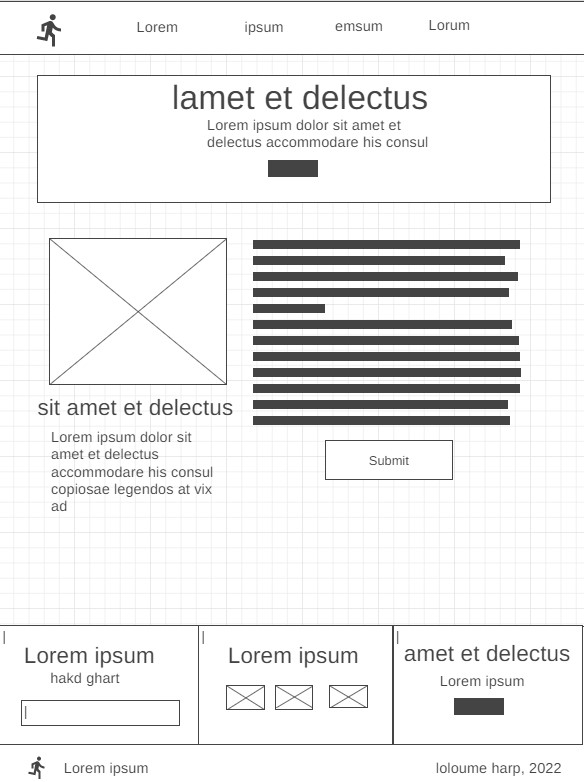
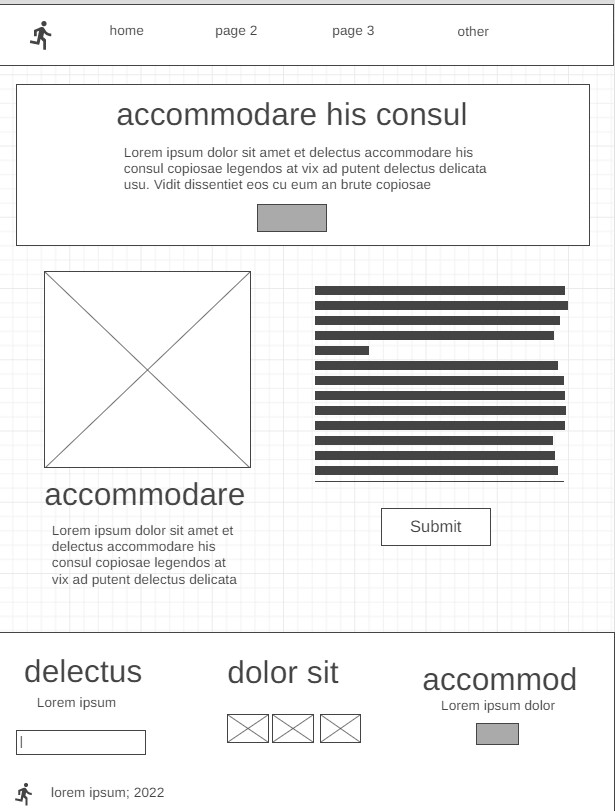
commit

diff --git a/personal-site/index.html b/personal-site/index.html
@@ -5,7 +5,7 @@
     <meta charset="UTF-8">
     <meta http-equiv="X-UA-Compatible" content="IE=edge">
     <meta name="viewport" content="width=device-width, initial-scale=1.0">
-    <title>Traning Plans Made Easy | Training4u | Homes </title>
+    <title>Training Plans Made Easy | Training4u | Homes </title>
 </head>
 <body>
     <div id="content">
@@ -21,16 +21,20 @@
 
             </nav>
         </header>
-        <div id="Hero">
+        
+        <div id="hero-one">
             <div id="hero-box-one">
                 <img id="hero-img-one" src="pictures/woman-running.jpg" alt="Training Plans">
             </div>
+
             <section id="hero-msg-one">
                 <h1 class="home-title-one"> Start Now With Training4u</h1>
-                <h4>Make your running dreams come true with unique and personal training plans </h4>
+                <h4>Make your running dreams come true with our unique and personal training plans </h4>
             </section>
+        </div>
+        <div id="hero-two">>
             <div id="hero-box-two">
-                <img id="hero-img-two" src="pictures/running-group.jpg" alt="group training">
+                <img id="hero-img-two" src="pictures/running-group.png" alt="group training">
             </div>
             <section id="hero-msg-two">
                 <h1 class="home-title-two">Meet other local runners </h1>
@@ -51,46 +55,44 @@
                 <img class="recover-img" src="pictures/asfault-running.jpg" alt="recover image">
                 <h2>Build Endurance</h2>
             </section>
-
-
+            </div> 
         </main>
-        <footer>
-            <section class="E-mail-list">
-                <h3>Join Our E-mail List</h3>
-                <p>Get helpful training tips and tricks every week! </p>
-                <form action="/emial-list" method="post">
-                     <li>
-                       <label for="mail">E-mail:</label>
-                       <input type="email" id="mail" name="user_email">
-                     </li>
-                   </form>
-            </section>
-            <div class="social">
-                <h3>Join Our Socials</h3>
-                <a href="https://facebook.com" target="_blank">
-                    <img src="pictures/facebook.png" alt="fb icon">
-                </a>
-                <a href="https://twitter.com" target="_blank">
-                    <img src="pictures/twitter.png" alt="twitter icon">
-                </a>
-                <a href="https://instagram.com" target="_blank">
-                    <img src="pictures/instagram.png" alt="instagram icon">
-                </a>
-            </div>
-            <div id="site-plan">
-                <h3>Learn More About Our Company</h3>
-                <div class='button-box'>
-                    <a class='company-info' href="site-plan.html">Site Plan</a>
-                </div>
-            </div>
-            <div id="copyright">
-            <h3>Training4u </h3>
+
+        
+        <footer class="bottom-grid">
+                <section class="E-mail-list">
+                    <h3>Join Our E-mail List</h3>
+                    <p>Get helpful training tips and tricks every week! </p>
+                    <form action="/emial-list" method="post">
+                        <label for="mail">E-mail:</label>
+                        <input type="email" id="mail" name="user_email">
+                    </form>
+                </section>
+                <section class="social">
+                    <h3>Join Our Socials</h3>
+                    <a href="https://facebook.com" target="_blank">
+                        <img src="pictures/facebook.png" alt="fb icon">
+                    </a>
+                    <a href="https://twitter.com" target="_blank">
+                        <img src="pictures/twitter.png" alt="twitter icon">
+                    </a>
+                    <a href="https://instagram.com" target="_blank">
+                        <img src="pictures/instagram.png" alt="instagram icon">
+                    </a>
+                </section>
+                <section class="site-plan">
+                    <h3>Learn More About Our Company</h3>
+                    <div class='button-box'>
+                        <a class='company-info' href="site-plan.html">Site Plan</a>
+                    </div>
+                </section>
+        </footer>
+        <div id="copyright">
             <a id="logo_link" href="index.html">
-                <img class="running-logo" src="pictures/running-logo.png" alt="Training4u Logo">
+                <img class="running-logo-two" src="pictures/running-logo.png" alt="Training4u Logo">
             </a>
-            <h3> WDD-130/Ethan Smith &copy; 2022 </h3>
+            <p> Training4u &copy; 2022 - Ethan Smith</p>
             </div>
-            </footer>
     </div>
 </body>
 </html>

diff --git a/personal-site/styles/style.css b/personal-site/styles/style.css
@@ -1,0 +1,211 @@
+
+/* fonts */
+@import url('https://fonts.googleapis.com/css2?family=Cairo:wght@200&family=Noto+Serif+Display:wght@100&display=swap');
+:root{--heading-font: "Noto Serif Display";
+--paragraph-font: "Cairo";
+}
+
+/* variables */
+:root { --primary-color: #323031}
+:root { --background:darkslategrey}
+:root { --hover: #CC3F0C }
+:root { --text: white }
+:root { --header: #C1BDB3 } 
+
+
+/* body */
+body {
+    background-color: white;
+    font-family: var(--paragraph-font);
+    font-size: 22px;
+    margin: 0;
+    padding: 0;
+}
+
+#content {
+    max-width: 1600px;
+    margin: 0 auto;
+}
+
+
+
+
+/* heading */
+.running-logo { width: 80px;
+    height: 80px;
+    padding: 10px;
+}
+#logo_link{    
+    padding-top: 5px;
+    justify-self: center;
+    align-self: center;}
+
+header{
+    background-color: var(--primary-color);
+    display: grid;
+    grid-template-columns: 150px auto;
+}
+nav{
+    display: flex;
+    justify-content: space-around;
+}
+nav a{ 
+    text-align: center;
+    background-color: var(--primary-color);
+    color: var(--header);
+    text-decoration: none;
+    padding: 35px;
+}
+nav a:hover{background-color: var(--hover);
+    color: var(--text);
+}
+
+        
+/* hero */
+#hero-one{
+    display: grid;
+    grid-template-columns: 1fr 1fr 1fr;
+    grid-template-rows: 1fr 1fr;
+    padding-top: 10px;
+    padding: 10px;
+
+}
+
+#hero-box-one {
+    grid-column: 1/3;
+    grid-row: 1/3;
+    z-index: -1;
+}
+
+#hero-msg-one {
+    grid-column: 1/3;
+    grid-row: 2;
+    margin-top: 100px;
+    }
+
+#hero-img-one {
+    width: 100%;
+    height: 100%;}
+
+#hero-msg-one h1 { 
+    text-align: center;
+    color: var(--primary-color);
+}
+#hero-msg-one h4{ 
+    text-align: center;
+    color: var(--primary-color);
+}
+
+
+#hero-two{
+    display: grid;
+    grid-template-columns: 1fr 1fr 1fr;
+    grid-template-rows: 1fr 1fr;
+    padding-top: 10px;
+    padding: 10px;
+}
+
+#hero-box-two{
+    grid-column: 2/4;
+    grid-row: 1/3;
+    z-index: -1;
+}
+
+#hero-msg-two {
+    grid-column: 2/4;
+    grid-row: 2;
+    margin-top: 100px;
+    }
+
+#hero-img-two {
+    width:100%; 
+    height: auto;
+}
+
+#hero-msg-two h1 { 
+    text-align: center;
+    color: var(--primary-color);
+}
+#hero-msg-two h4{ 
+    text-align: center;
+    color: var(--primary-color);
+}
+
+
+/* main */
+.home-grid{ 
+    padding-top: 20px;
+    margin: 20px;
+    text-align: center;
+    display: grid;
+    grid-template-columns: repeat(10, 1fr);
+    background-color: var(--background);
+}
+.cross-img, .speed-img, .recover-img {
+    width: 100%;
+    height: auto;
+}
+.plymetrics {
+    grid-column: 2/4;
+    grid-row: 2/3;}
+.speed{
+    grid-column: 5/7;
+    grid-row:2/3;} 
+.recover{
+    grid-column: 8/10;
+    grid-row:2/3;
+} 
+h2 {color: var(--header)}
+
+
+
+/* footer */
+.bottom-grid { 
+    padding-top: 20px;
+    display: grid;
+    grid-template-columns: repeat(3, 1fr);
+    background-color: var(--primary-color);
+    text-align: center;
+}
+    
+#E-mail-list {
+    grid-column: 1/2;
+} 
+
+#social {
+    grid-column: 2/3;
+} 
+
+#site-plan {
+    grid-column: 3/4;
+} 
+
+
+#copyright {
+    background-color: var(--primary-color);
+    display: flex;
+    align-items: left;
+} 
+h3, p{
+    color: var(--header)
+}
+a{ 
+    background-color: var(--primary-color);
+    color: var(--header);
+}
+a:hover{background-color: var(--hover);
+        color: var(--text);
+    }
+.company-info{padding: 15px 30px;    
+    border-radius: 5px;}
+.button-box:hover{
+    font-size: 18px;
+    background-color: var(--primary-color);
+    text-decoration: none;}
+        
+.running-logo-two { 
+    width: 50px;
+    height: 50px;
+}
+
+

diff --git a/personal-site/styles/site-plan.css b/personal-site/styles/site-plan.css
@@ -6,7 +6,7 @@ Fonts are separated by a | */
 :root {
   /* change the values below to your colors from your palette */
   --primary-color: #323031   ;
-  --secondary-color: #226F54 ;
+  --secondary-color: darkslategrey ;
   --accent1-color: #CC3F0C;
   --accent2-color: #C1BDB3;
 

diff --git a/wwr/index.html b/wwr/index.html
@@ -31,6 +31,7 @@
                 </div>
             </section>
         </div>
+        
         <main class="home-grid">
             <section class="rivers-card">
                 <img class="card-img" src="images/rivers.jpg" alt="river in forest">
